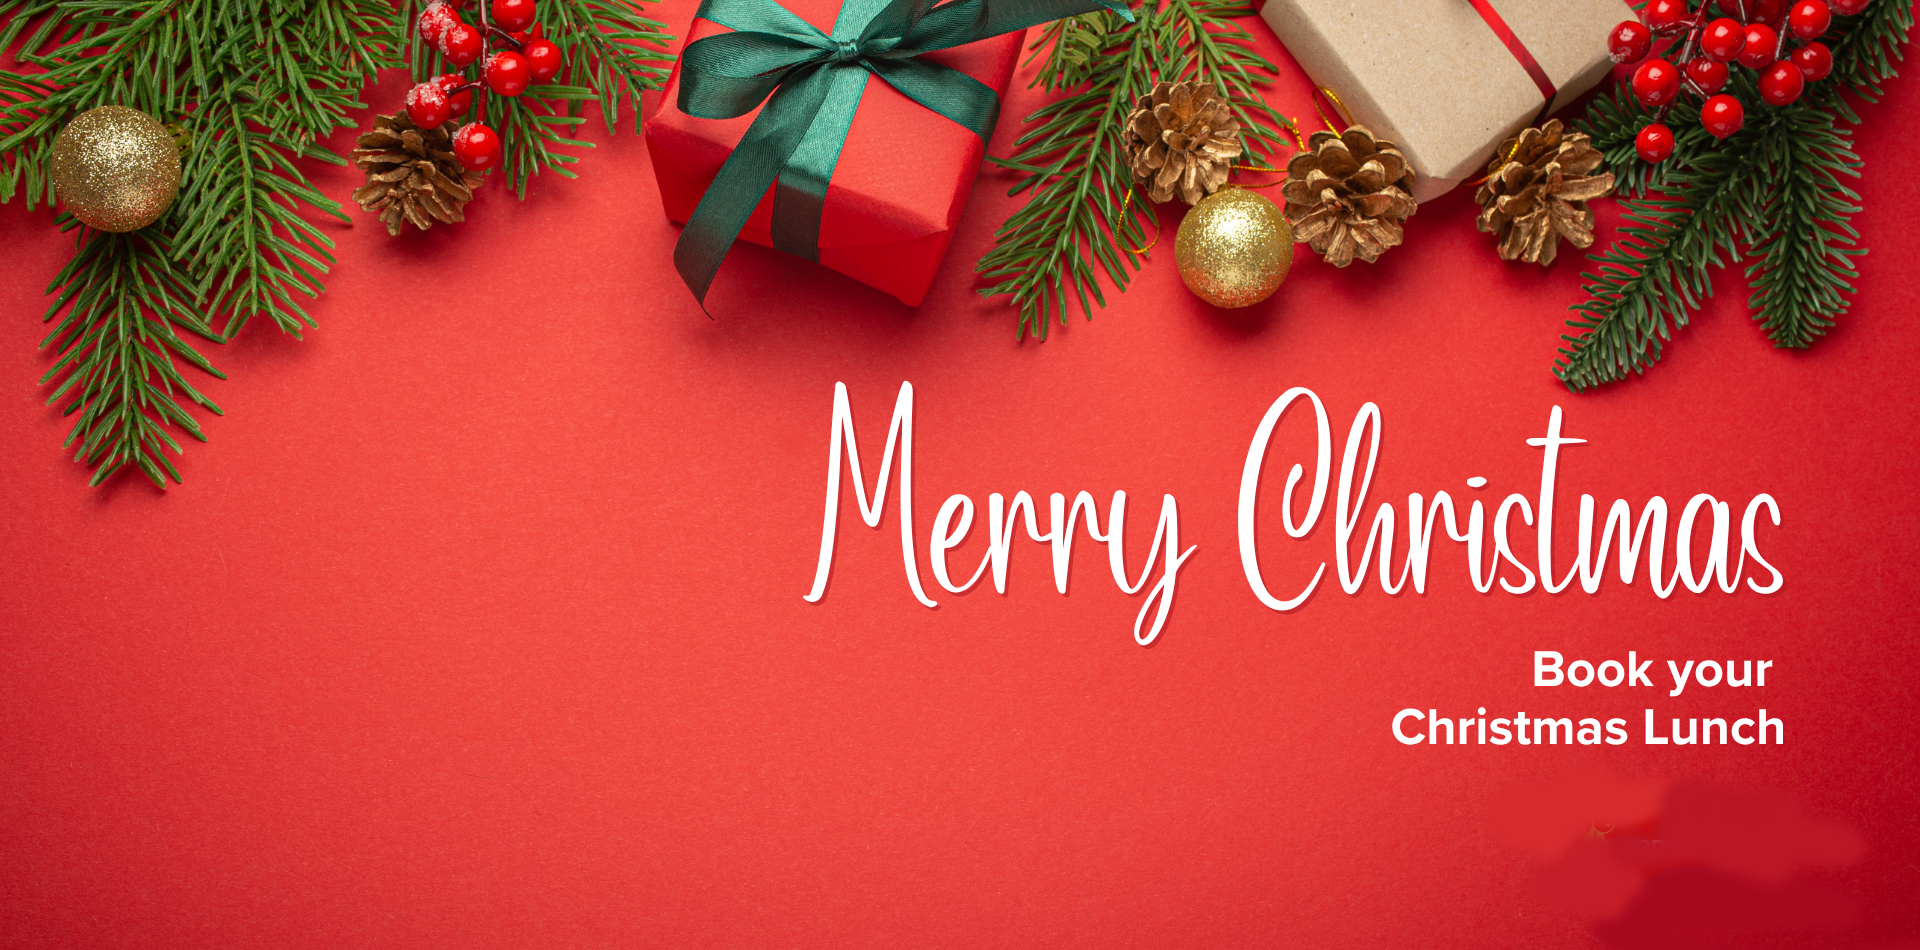
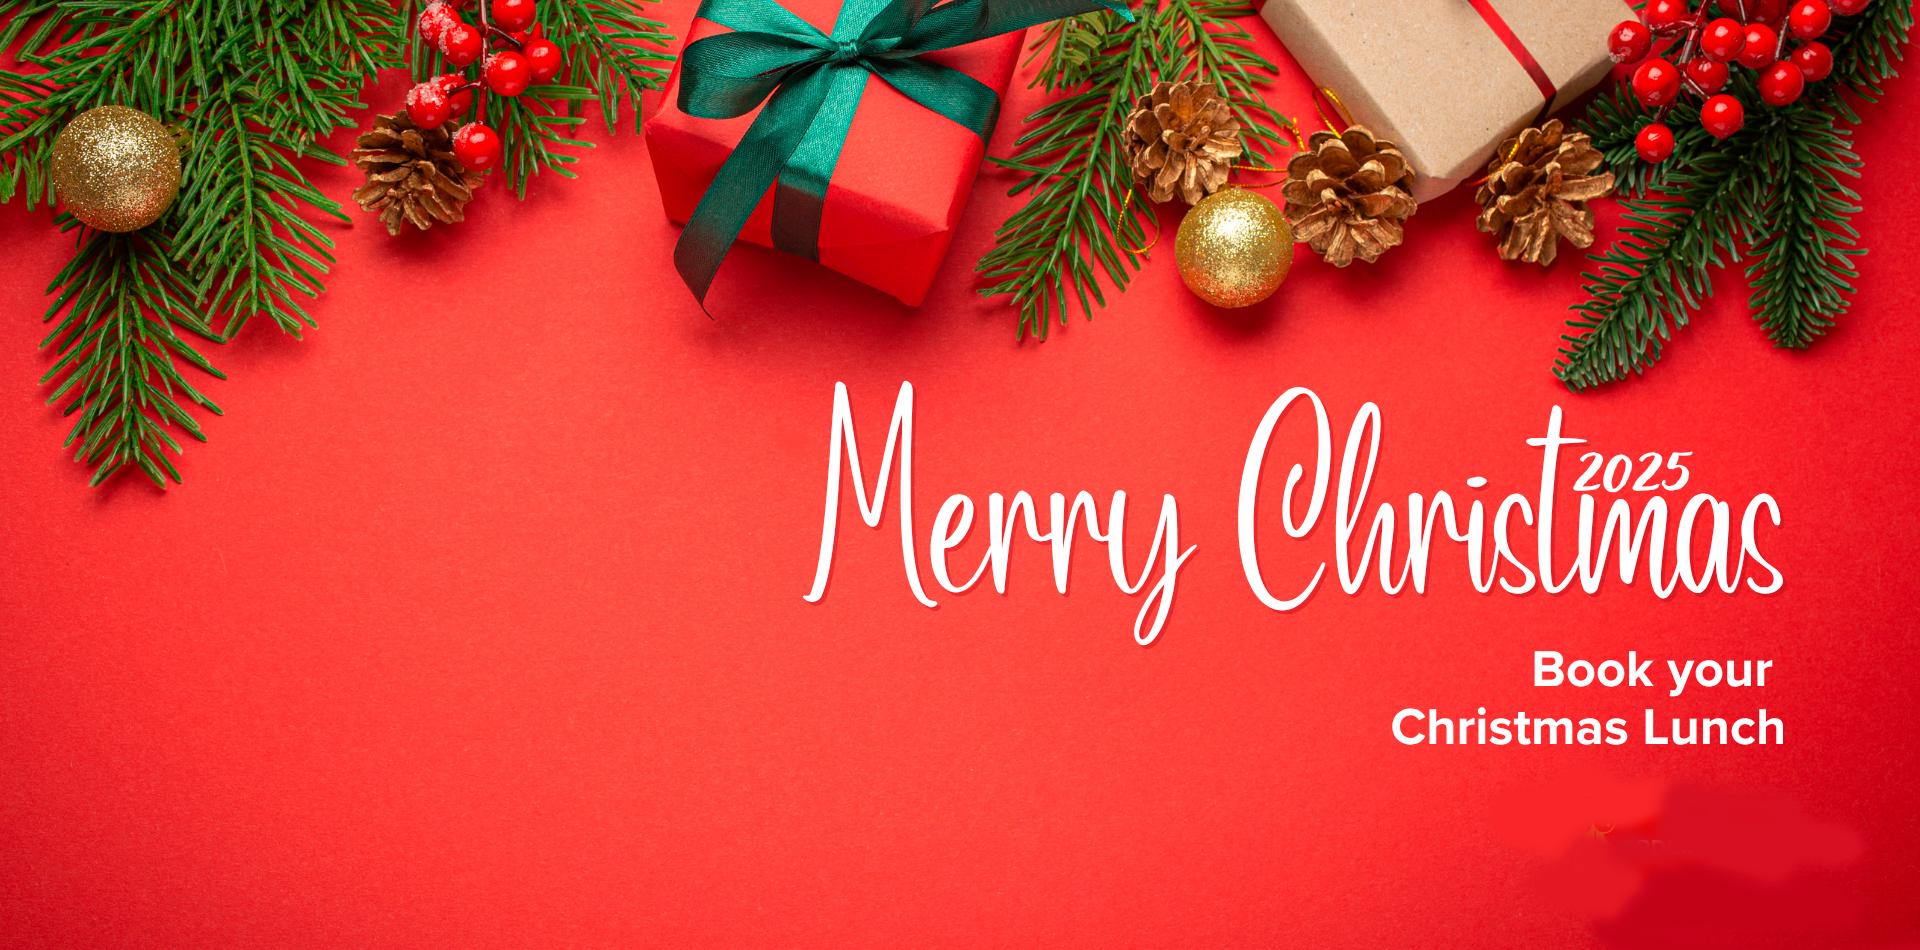
christmas 2025

diff --git a/Christmas/index.html b/Christmas/index.html
@@ -208,12 +208,12 @@
             </tr>
             <tr>
               <td class="left-data">Order Cut-off</td>
-              <td class="right-data">The Minimum order is 1 Combo</td>
+              <td class="right-data">The minimum order is 1 main course combo.</td>
             </tr>
           </table>
           <div class="notice-tag">
             <p class="highlight-banner  ">
-                      Private catering available on other days in December <br/> Minimum order: 10 people <br/> Home delivery available.
+                Christmas special private catering available in December across Baden-Württemberg. <br/> Minimum order: 10 people • Home delivery available.
             </p>
           </div>
         </div>
@@ -242,61 +242,43 @@
 </section>
 
   <section class="packages">
-  <h2 class=" scroll-animate ">Christmas Packages</h2>
+  <h2 class="scroll-animate">Christmas Packages</h2>
   <div class="package-cards">
 
-    <div class="card  scroll-animate">
+    <div class="card scroll-animate">
+      <h3>Single Package</h3>
+      <div class="people-number">(1 Guest)</div>
+      <p class="fw-600">
+        Chicken Combo: €18 <br>
+        Veg Combo: €16 <br>
+        including taxes &amp; packaging
+      </p>
+      <ul>
+        <li>Biriyani (Chicken / Veg) – 1 portion</li>
+        <li>Cutlet – 2 pieces (Chicken / Veg)</li>
+        <li>Plum Cake Slice – 1 slice</li>
+        <li>Yogurt Salad &amp; Pickle</li>
+        <li>Add-on options available</li>
+      </ul>
+      <div class="order-btn">
+        <a href="https://forms.gle/zk9gig54ukWbL5TJ9" target="_blank">Order Now</a>
+      </div>
+    </div>
+
+    <div class="card scroll-animate">
       <h3>Family Package</h3>
       <div class="people-number">(5 Guests)<span class="offer-label">5.5% Discount</span></div>
-      <p><em>Perfect for small families seeking to enjoy a mini Christmas feast.</em></p>
+
       <p class="fw-600">
         Chicken Combo: €85 <br>
         Veg Combo: €75 <br>
         including taxes &amp; packaging
       </p>
 
-      <p class="serves-content">
-        Serves 5 guests
-        <span>Approx. 6 kg food (1.2 kg per person)</span>
-      </p>
-
       <ul>
         <li>Biriyani (Chicken / Veg) – 5 portions</li>
         <li>Cutlet – 10 pieces (Chicken / Veg) + Salad</li>
         <li>Plum Cake Slice – 5 slices</li>
-        <li>Yogurt Salad &amp; Pickle</li>
-        <li>Add-on option available.</li>
-      </ul>
-
-      <div class="order-btn">
-        <a href="https://forms.gle/zk9gig54ukWbL5TJ9" target="_blank">Order Now</a>
-      </div>
-    </div>
-
-
-    <div class="card  scroll-animate">
-      <h3>Friends Get-Together</h3>
-      <div class="people-number">
-        (15 Guests)
-        <span class="offer-label">7.4% Discount</span>
-      </div>
-
-      <p><em>Perfect for intimate family gatherings and small Christmas parties.</em></p>
-
-      <p class="fw-600">
-        Chicken Combo: €250 <br>
-        Veg Combo: €240 <br>
-         including taxes &amp; packaging</p>
-
-      <p class="serves-content">
-        Serves 15 guests
-        <span>Approx. 18 kg food (1.2 kg per person)</span>
-      </p>
-
-      <ul>
-        <li>Biriyani (Chicken / Veg) – 15 portions</li>
-        <li>Cutlet – 30 pieces (Chicken / Veg) + Salad</li>
-        <li>Plum Cake Slice – 15 slices</li>
         <li>Yogurt Salad &amp; Pickle</li>
         <li>Add-on options available</li>
       </ul>
@@ -306,41 +288,32 @@
       </div>
     </div>
 
-    <div class="card  scroll-animate">
-      <h3>Grand Christmas Feast</h3>
-      <div class="people-number">(30+ Guests)</div>
+    <div class="card scroll-animate">
+      <h3>Group Feast</h3>
+      <div class="people-number">(20+ Guests)</div>
 
-      <p><em>Ideal for community gatherings, large events or office Christmas celebrations.</em></p>
       <ul>
-        <li>Available across Baden-Württemberg on all Christmas celebration days.</li>
-        <li>Customised menu available based on your request.</li>
-        <li>On-site chef support for live & hot food service.</li>
-        <li>All serving dishes and hot food equipment included.</li>
+        <li>Available across Baden-Württemberg.</li>
+        <li>Customised menu available on request.</li>
+        <li>On-site chef support available.</li>
+        <li>Serving dishes &amp; hot food equipment included.</li>
         <li>Food truck service available on location.</li>
       </ul>
 
       <div class="notice-tag">
-        <p class="highlight-banner  ">
-          We offer great discounts and Compliments! Contact us directly!
-            <a href="tel:+49 176 658 15015"><svg height="20" fill="#fff" viewBox="0 0 48 48" width="20" xmlns="http://www.w3.org/2000/svg"><path d="M0 0h48v48h-48z" fill="none"/><path d="M13.25 21.59c2.88 5.66 7.51 10.29 13.18 13.17l4.4-4.41c.55-.55 1.34-.71 2.03-.49 2.24.74 4.65 1.14 7.14 1.14 1.11 0 2 .89 2 2v7c0 1.11-.89 2-2 2-18.78 0-34-15.22-34-34 0-1.11.9-2 2-2h7c1.11 0 2 .89 2 2 0 2.49.4 4.9 1.14 7.14.22.69.06 1.48-.49 2.03l-4.4 4.42z"/></svg> +49 176 658 15015</a>
+        <p class="highlight-banner">
+          We offer great discounts for group orders! Contact us directly.
+          <a href="tel:+49 176 658 15015"><svg height="20" fill="#fff" viewBox="0 0 48 48" width="20" xmlns="http://www.w3.org/2000/svg"><path d="M0 0h48v48h-48z" fill="none"/><path d="M13.25 21.59c2.88 5.66 7.51 10.29 13.18 13.17l4.4-4.41c.55-.55 1.34-.71 2.03-.49 2.24.74 4.65 1.14 7.14 1.14 1.11 0 2 .89 2 2v7c0 1.11-.89 2-2 2-18.78 0-34-15.22-34-34 0-1.11.9-2 2-2h7c1.11 0 2 .89 2 2 0 2.49.4 4.9 1.14 7.14.22.69.06 1.48-.49 2.03l-4.4 4.42z"/></svg> +49 176 658 15015</a>
         </p>
-
         <div class="order-btn">
           <a href="https://forms.gle/ttoiBUaPWvXrMBnB7" target="_blank">Contact Us</a>
         </div>
       </div>
     </div>
-    
-    
+
   </div>
-<div class="notice-tag">
-      <p class="highlight-banner  scroll-animate ">
-      You can also order a single combo separately on the order form if you don’t need a package.      
-      </p>
-    </div>
-
-
 </section>
+
 
 <section class="preorder">
   <div class=" xmas-content">
@@ -496,9 +469,6 @@
     </ul>
   </div>
 </section>
-
-
-
 
  <div class="gift-banner"><img src="./images/6.jpeg" alt="Foodeza" /></div> 
  
